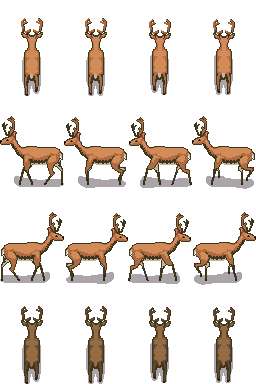
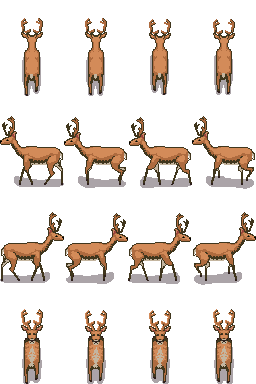
修正鹿的圖檔

diff --git a/tools/gen_assets.py b/tools/gen_assets.py
@@ -2996,7 +2996,7 @@ EXTERNAL_BUNDLES = [
     dict(sheet="external/img2pixel/ultima_weapon_sheet.png", frames=6, fw=88, fh=74, what="蓋老師（究極神兵）的走路 6 幀（熔岩島島主）"),
     dict(sheet="external/img2pixel/alexander_idle_sheet.png", frames=4, fw=88, fh=77, what="壓力山大的待機 4 幀（機械島島主）"),
     # 2026-11-12 素材庫第一批（OpenGameArt LPC；sheet 已裁成只用到的格）：
-    dict(sheet="external/img2pixel/deer_sheet.png", frames=4, rows=4, fw=64, fh=96, what="鹿的 4 方向（下／左／右／上）× 4 幀走路（草島）"),
+    dict(sheet="external/img2pixel/deer_sheet.png", frames=4, rows=4, fw=64, fh=96, what="鹿的 4 方向（上／左／右／下）× 4 幀走路（草島；第 1 列背影、第 4 列正面）"),
     dict(sheet="external/img2pixel/cat_sheet.png", frames=3, rows=3, fw=32, fh=32, what="貓的 3 方向（上／下／左）× 3 幀走路（和平島；白貓原色，靠 tint 可換色）"),
     dict(sheet="external/img2pixel/dog_sheet.png", frames=3, rows=3, fw=32, fh=32, what="狗的 3 方向（上／下／左）× 3 幀走路（和平島；白狗原色，靠 tint 可換色）"),
     dict(sheet="external/img2pixel/boar_sheet.png", frames=3, rows=4, fw=64, fh=64, what="野豬的 4 方向（上／右／下／左）× 3 幀走路（森林島）"),
@@ -3174,7 +3174,7 @@ MOB_MANIFEST = dict(
         # 鹿（草島）：被動（道德性怪物），4 方向走路
         dict(id="deer", name="鹿", lv=5, speed=40, flee=120, noBounce=True,
              anim=dict(sheet="external/img2pixel/deer_sheet.png", frames=4, rows=4, fw=64, fh=96,
-                       rowDir=["down", "left", "right", "up"], fps=6, scale=0.52),   # 格內實際內容 22×78，畫面約 41px 高（人物約 46px；2026-11-13 使用者定「大隻一點，比雞大」，由 0.4 放大——雞只有約 24px）
+                       rowDir=["up", "left", "right", "down"], fps=6, scale=0.52),   # 原圖第 1 列是背影（往上）、第 4 列是正面（往下）；格內實際內容 22×78，畫面約 41px 高（人物約 46px；2026-11-13 使用者定「大隻一點，比雞大」，由 0.4 放大——雞只有約 24px）
              line="「鹿」豎起耳朵看了你一眼，又低頭繼續啃草。"),
         # 貓／狗（和平島）：被動、固定生成，補和平島「島上沒有動物」的空虛感；和平島不得放敵對怪，這兩隻是安全的
         dict(id="cat", name="貓", lv=2, fixed=2, speed=34, flee=60, noBounce=True,

diff --git a/docs/assets-license.md b/docs/assets-license.md
@@ -35,7 +35,7 @@
 | `client/assets/external/img2pixel/fireball_burst.png` | 火球命中爆炸：12 幀（384×32，格 32×32；原檔 24 幀取前 12 幀「由火花長成火球」段） | OpenGameArt.org「[LPC explosions 2](https://opengameart.org/content/lpc-explosions-2)」（**CC0**，作者 theidiotmachine；LPC palette、32×32） | 2026-11-10 自 OpenGameArt.org 下載 `Pix2.zip` 取 `fireball1.png`（768×32，24 幀循環），由 agent 切前 12 幀組成水平 sheet（`main.js` 直接載入 `S.burstSpr`，不經 manifest）。用於飛龍火球落地的爆炸特效。CC0 不強制標註，但仍記錄出處 |
 
 | `client/assets/external/img2pixel/skeleton_sheet.png` | 骷髏：走路 4 方向（上／左／下／右）× 9 幀（576×256，格 64×64） | OpenGameArt.org「[LPC skeleton](https://opengameart.org/content/lpc-skeleton)」（CC-BY-SA 3.0；上傳者 rhimlock 補上刺擊動畫，動畫本體 by wulax／Johannes Sjölund，改建自 Redshrike 的 LPC 基底 `lpc-medieval-fantasy-character-sprites`；頁面註明「不必 credit rhimlock」但仍保留出處） | 2026-11-10 自 OpenGameArt.org 下載 `skeleton_3.png`／`skeleton_4.png`（皆 832×1344 全身 LPC 圖，走路段相同），取 `skeleton_4.png` 的走路段（y=512..768）切出 9 幀 × 4 方向 sheet，另存一份到 `D:\素材\怪物\`。已接線為夜光島 `skeleton_night`（原色白骨）；反擊型野怪（`retaliate`，1/12 島主 HP／攻擊／經驗，`ownerFrac:12`）、夜光島固定 6 隻、`noBounce`（有真走路動畫） |
-| `client/assets/external/img2pixel/deer_sheet.png` | 鹿：走路 4 方向（下／左／右／上）× 4 幀（256×384，格 64×96） | **CC-BY 4.0**（OpenGameArt.org） | 2026-11-12 引入（素材庫 `D:\素材\怪物\lpc-bears-deer-lions-and-more\deer 64x96.png`）。來源：[OpenGameArt.org](https://opengameart.org/content/lpc-bears-deer-lions-and-more)「[LPC] bears, deer, lions and more」，作者 **tapatilorenzo**。由 agent 切格重拼（原 8×8 網格只取 4 方向 4 幀）。已接線為草島 `deer`（被動，`lv:5`） |
+| `client/assets/external/img2pixel/deer_sheet.png` | 鹿：走路 4 方向（上／左／右／下）× 4 幀（256×384，格 64×96） | **CC-BY 4.0**（OpenGameArt.org） | 2026-11-12 引入（素材庫 `D:\素材\怪物\lpc-bears-deer-lions-and-more\deer 64x96.png`）。來源：[OpenGameArt.org](https://opengameart.org/content/lpc-bears-deer-lions-and-more)「[LPC] bears, deer, lions and more」，作者 **tapatilorenzo**。由 agent 切格重拼（原 8×8 網格只取 4 方向 4 幀）；2026-11-25 修正：原本第 4 列誤取成原圖第 5 列（深色版背影），改成原圖第 4 列（正面，公鹿），所以往下走才有正面。已接線為草島 `deer`（被動，`lv:5`） |
 | `client/assets/external/img2pixel/cat_sheet.png` | 貓：走路 3 方向（上／下／左）× 3 幀（96×96，格 32×32；原檔多色 16 欄，只取白貓那 3 欄） | **CC-BY 3.0 ／ CC-BY-SA 3.0 ／ GPL 3.0 ／ GPL 2.0 ／ OGA-BY 3.0**（五選一） | 2026-11-12 引入（素材庫 `D:\素材\怪物\lpc-cats-and-dogs\cat_0.png`）。來源：[OpenGameArt.org](https://opengameart.org/content/lpc-cats-and-dogs)「[LPC] Cats and Dogs」，作者 **bluecarrot16**。已接線為和平島 `cat`（被動、`fixed:2`、`lv:2`）；白貓原色，之後可用 `tint` 換色。2026-11-13 使用者定加花色：`cat_black`／`cat_orange` 用 `tint` 重上色（同一張圖、無新素材）；`cat_calico`（花貓）由 `gen_assets.py` 的 `pet_variant_sheet()` 從這張現場合成橘黑斑塊 sheet（`cat_calico_sheet.png`，衍生圖、授權同本筆） |
 | `client/assets/external/img2pixel/dog_sheet.png` | 狗：走路 3 方向（上／下／左）× 3 幀（96×96，格 32×32；原檔多色 16 欄，只取白狗那 3 欄） | **CC-BY 3.0 ／ CC-BY-SA 3.0 ／ GPL 3.0 ／ GPL 2.0 ／ OGA-BY 3.0**（五選一） | 2026-11-12 引入（素材庫 `D:\素材\怪物\lpc-cats-and-dogs\dog_2.png`）。來源同貓（「[LPC] Cats and Dogs」，bluecarrot16）。已接線為和平島 `dog`（被動、`fixed:2`、`lv:3`）。2026-11-13 使用者定加花色：`dog_black`／`dog_yellow` 用 `tint` 重上色（同一張圖、無新素材）；`dog_spotted`（花狗）由 `gen_assets.py` 的 `pet_variant_sheet()` 從這張現場合成黑斑塊 sheet（`dog_spotted_sheet.png`，衍生圖、授權同本筆） |
 | `client/assets/external/img2pixel/boar_sheet.png` | 野豬：走路 4 方向（上／左／下／右）× 3 幀（192×256，格 64×64） | **CC-BY 3.0**（OpenGameArt.org） | 2026-11-12 引入（素材庫 `D:\素材\怪物\pigs-rework\boar.png`）。來源：[OpenGameArt.org](https://opengameart.org/content/pigs-rework)「Pigs Rework」，作者 **AntumDeluge**。已接線為森林島 `boar`（反擊型野怪 `retaliate`，`lv:25`） |
